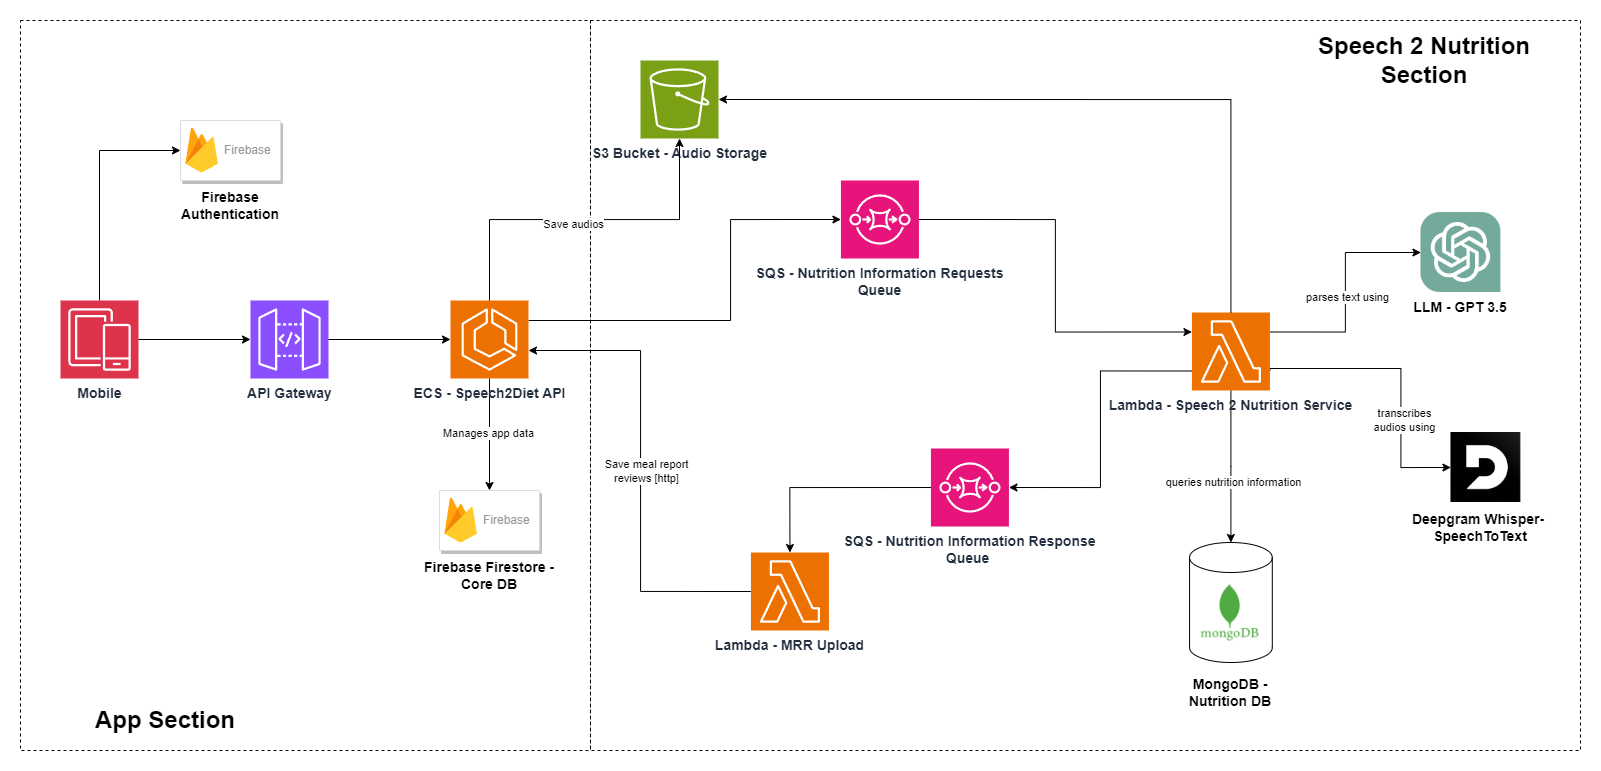
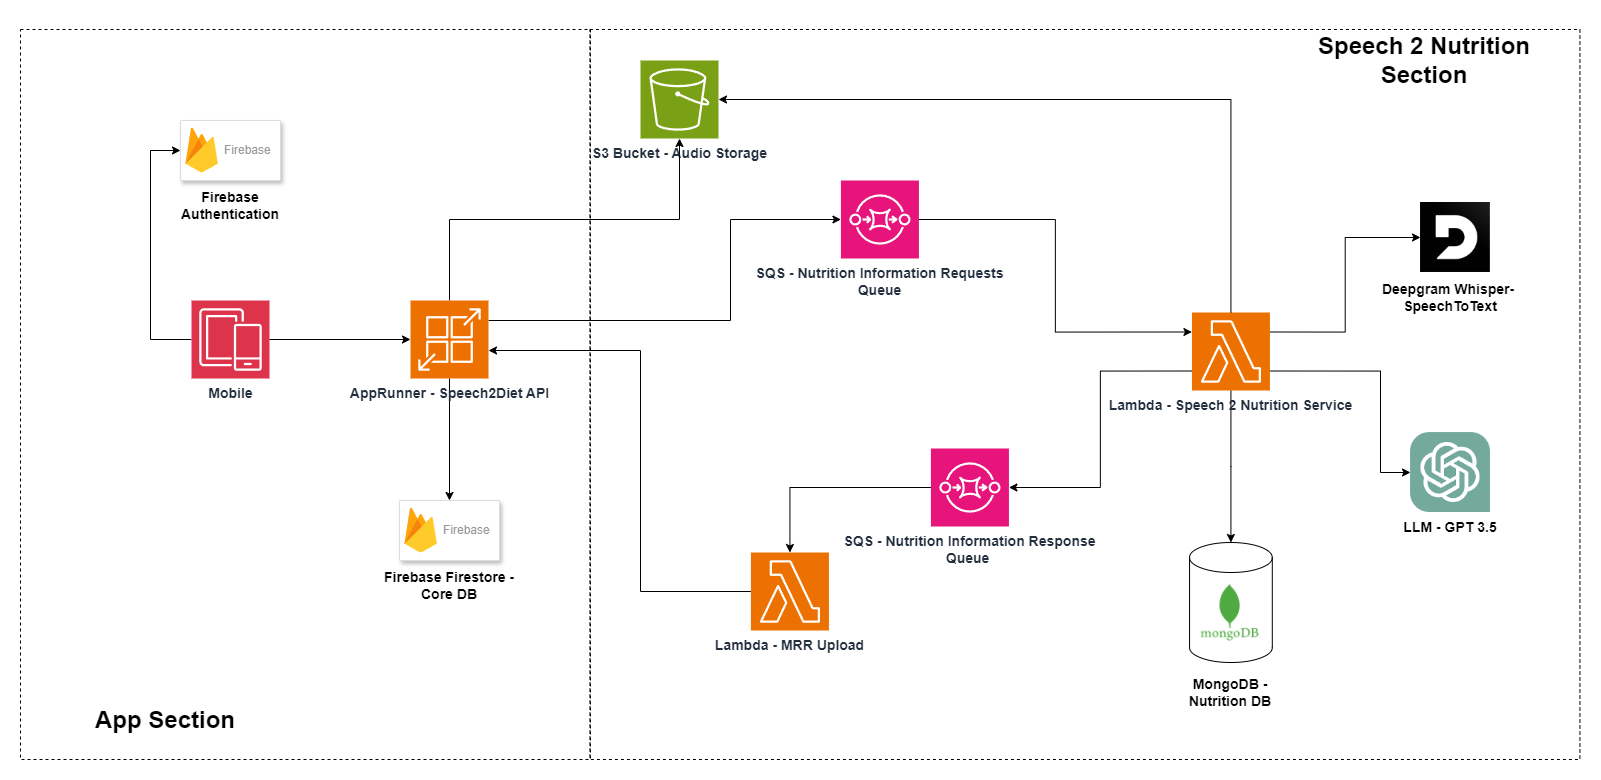
docs(root): update aws diagram

diff --git a/README.md b/README.md
@@ -31,10 +31,10 @@ Finally, for me, the best way to learn is by building projects and so far, this 
 
 Some abbreviations are used in the documentation and code to avoid long names.
 
-_mrr:_  meal report review
-_frr:_ food report review
-_s2n:_ Speech 2 Nutrition
-_s2d-api:_ Speech 2 Diet API
+* _mrr:_  meal report review
+* _frr:_ food report review
+* _s2n:_ Speech 2 Nutrition
+* _s2d-api:_ Speech 2 Diet API
 
 **¿What are meal report reviews?**
 
@@ -46,8 +46,8 @@ To keep it simple, it's just a report containing all the foods you consumed in a
 
 **App section:**
 
-- API Gateway: Handle security, monitoring, and rate limits to prevent abuse of internal services.
-- ECS - Speech 2 Diet API: Manage profile user data and meal report reviews. 
+- Mobile App: The user interacts with the Flutter app.
+- App Runner - Speech 2 Diet API: Manage profile user data and meal report reviews. 
 - Firebase Authentication: Handle user authentication.
 - Firestore: NoSQL database to store profile user data and meal report reviews.
 
